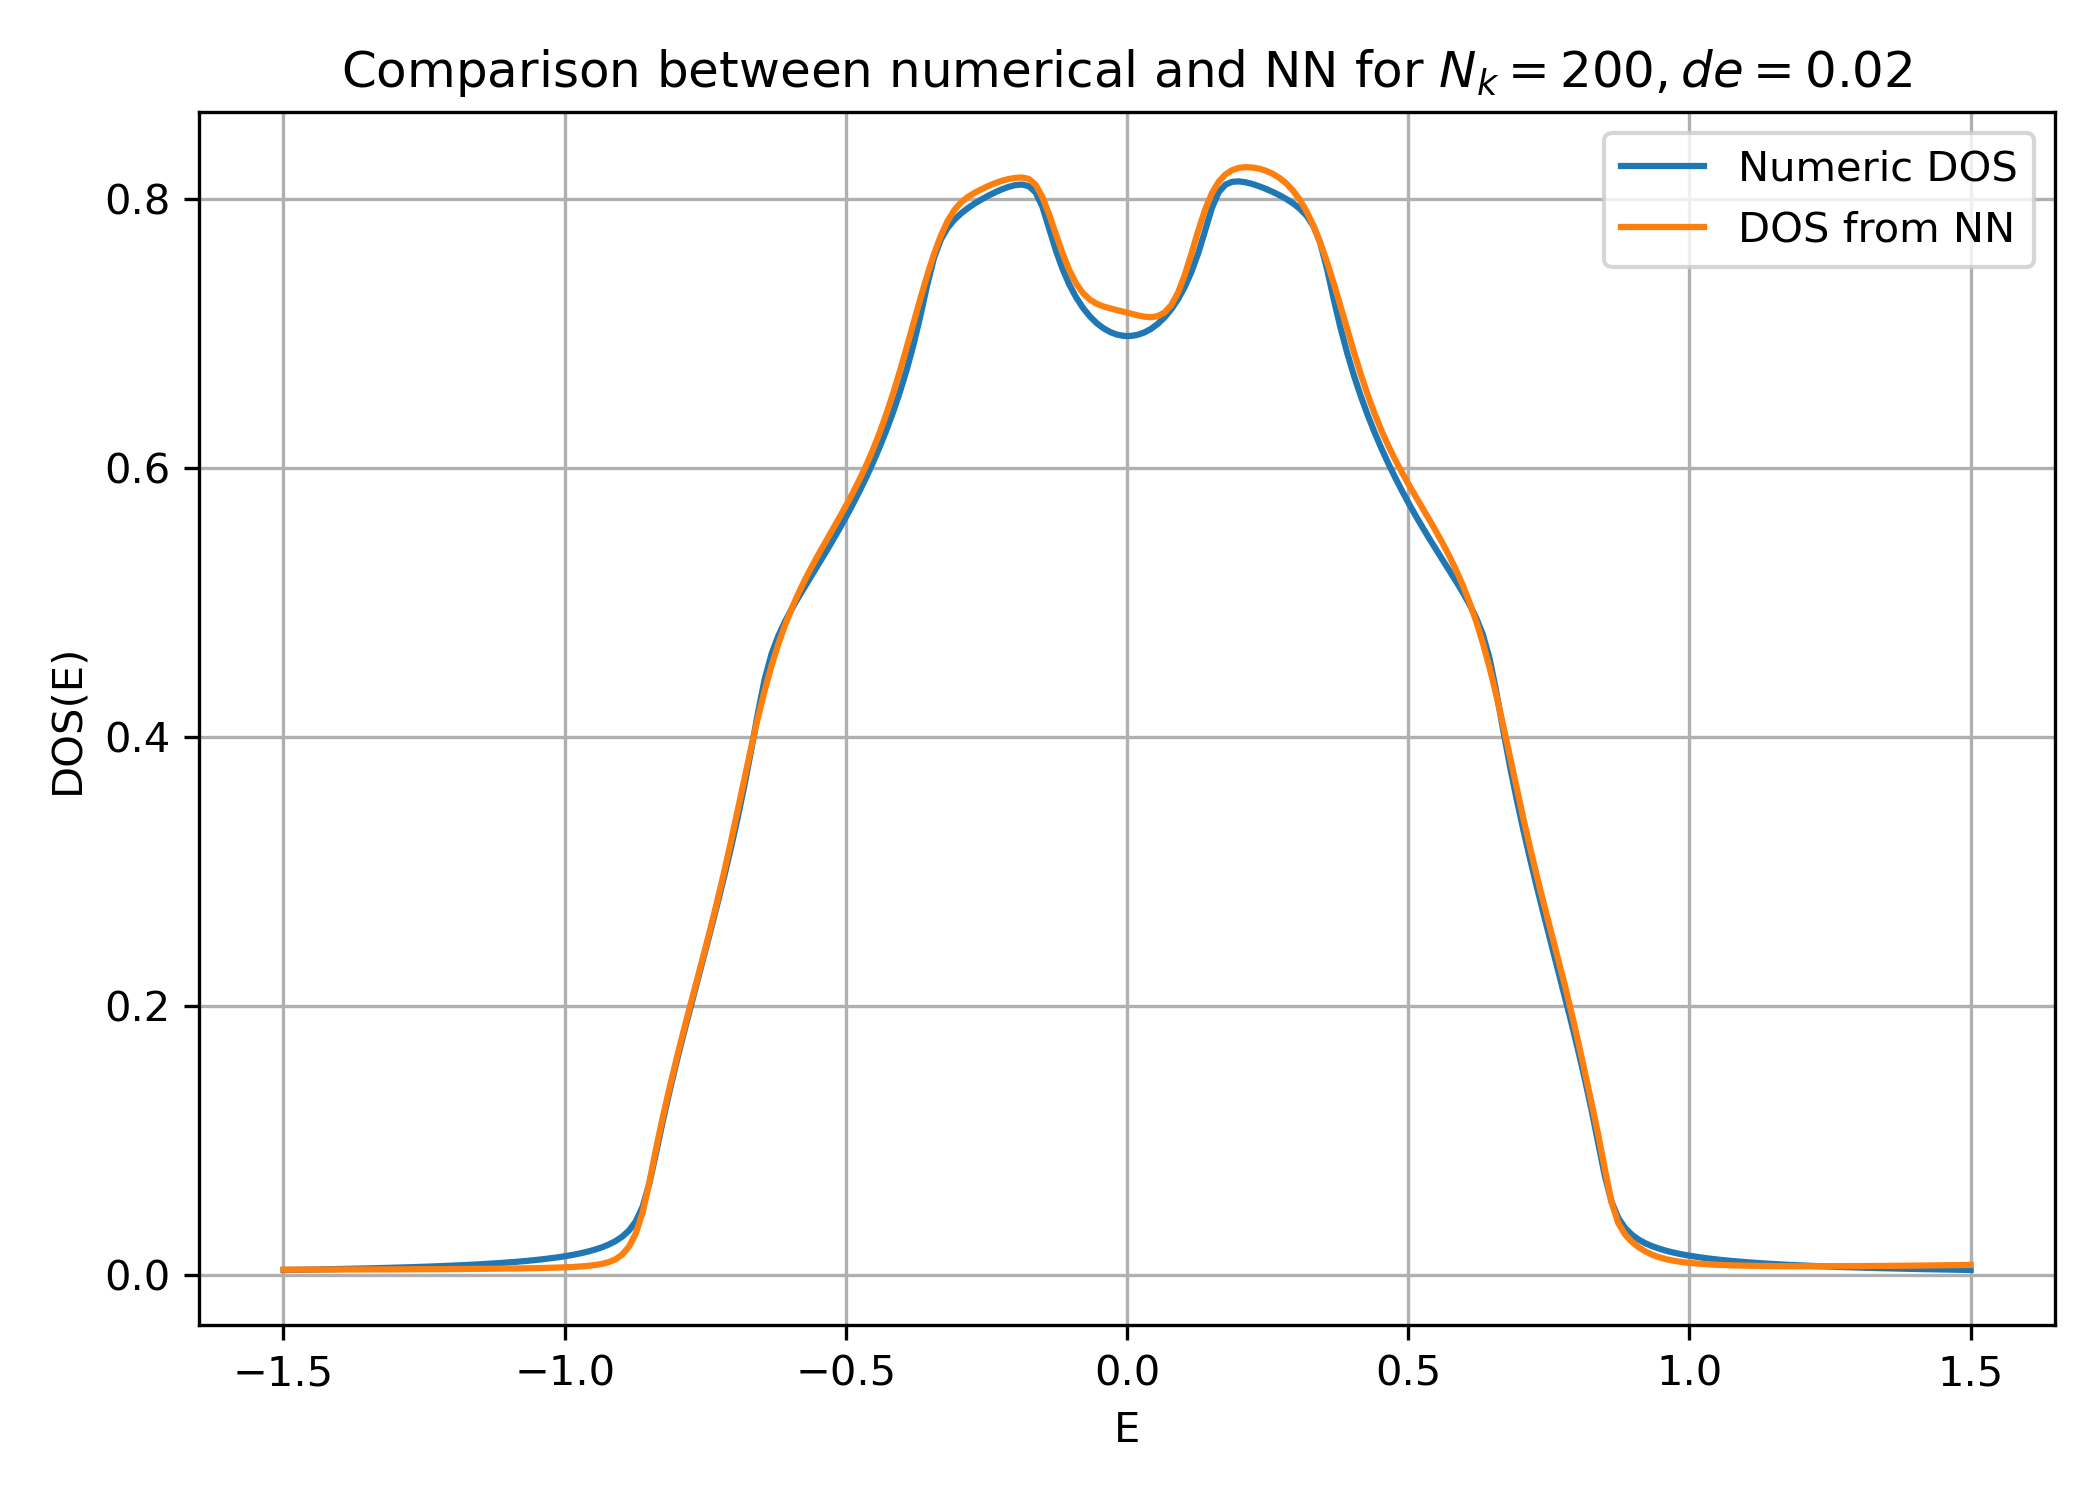
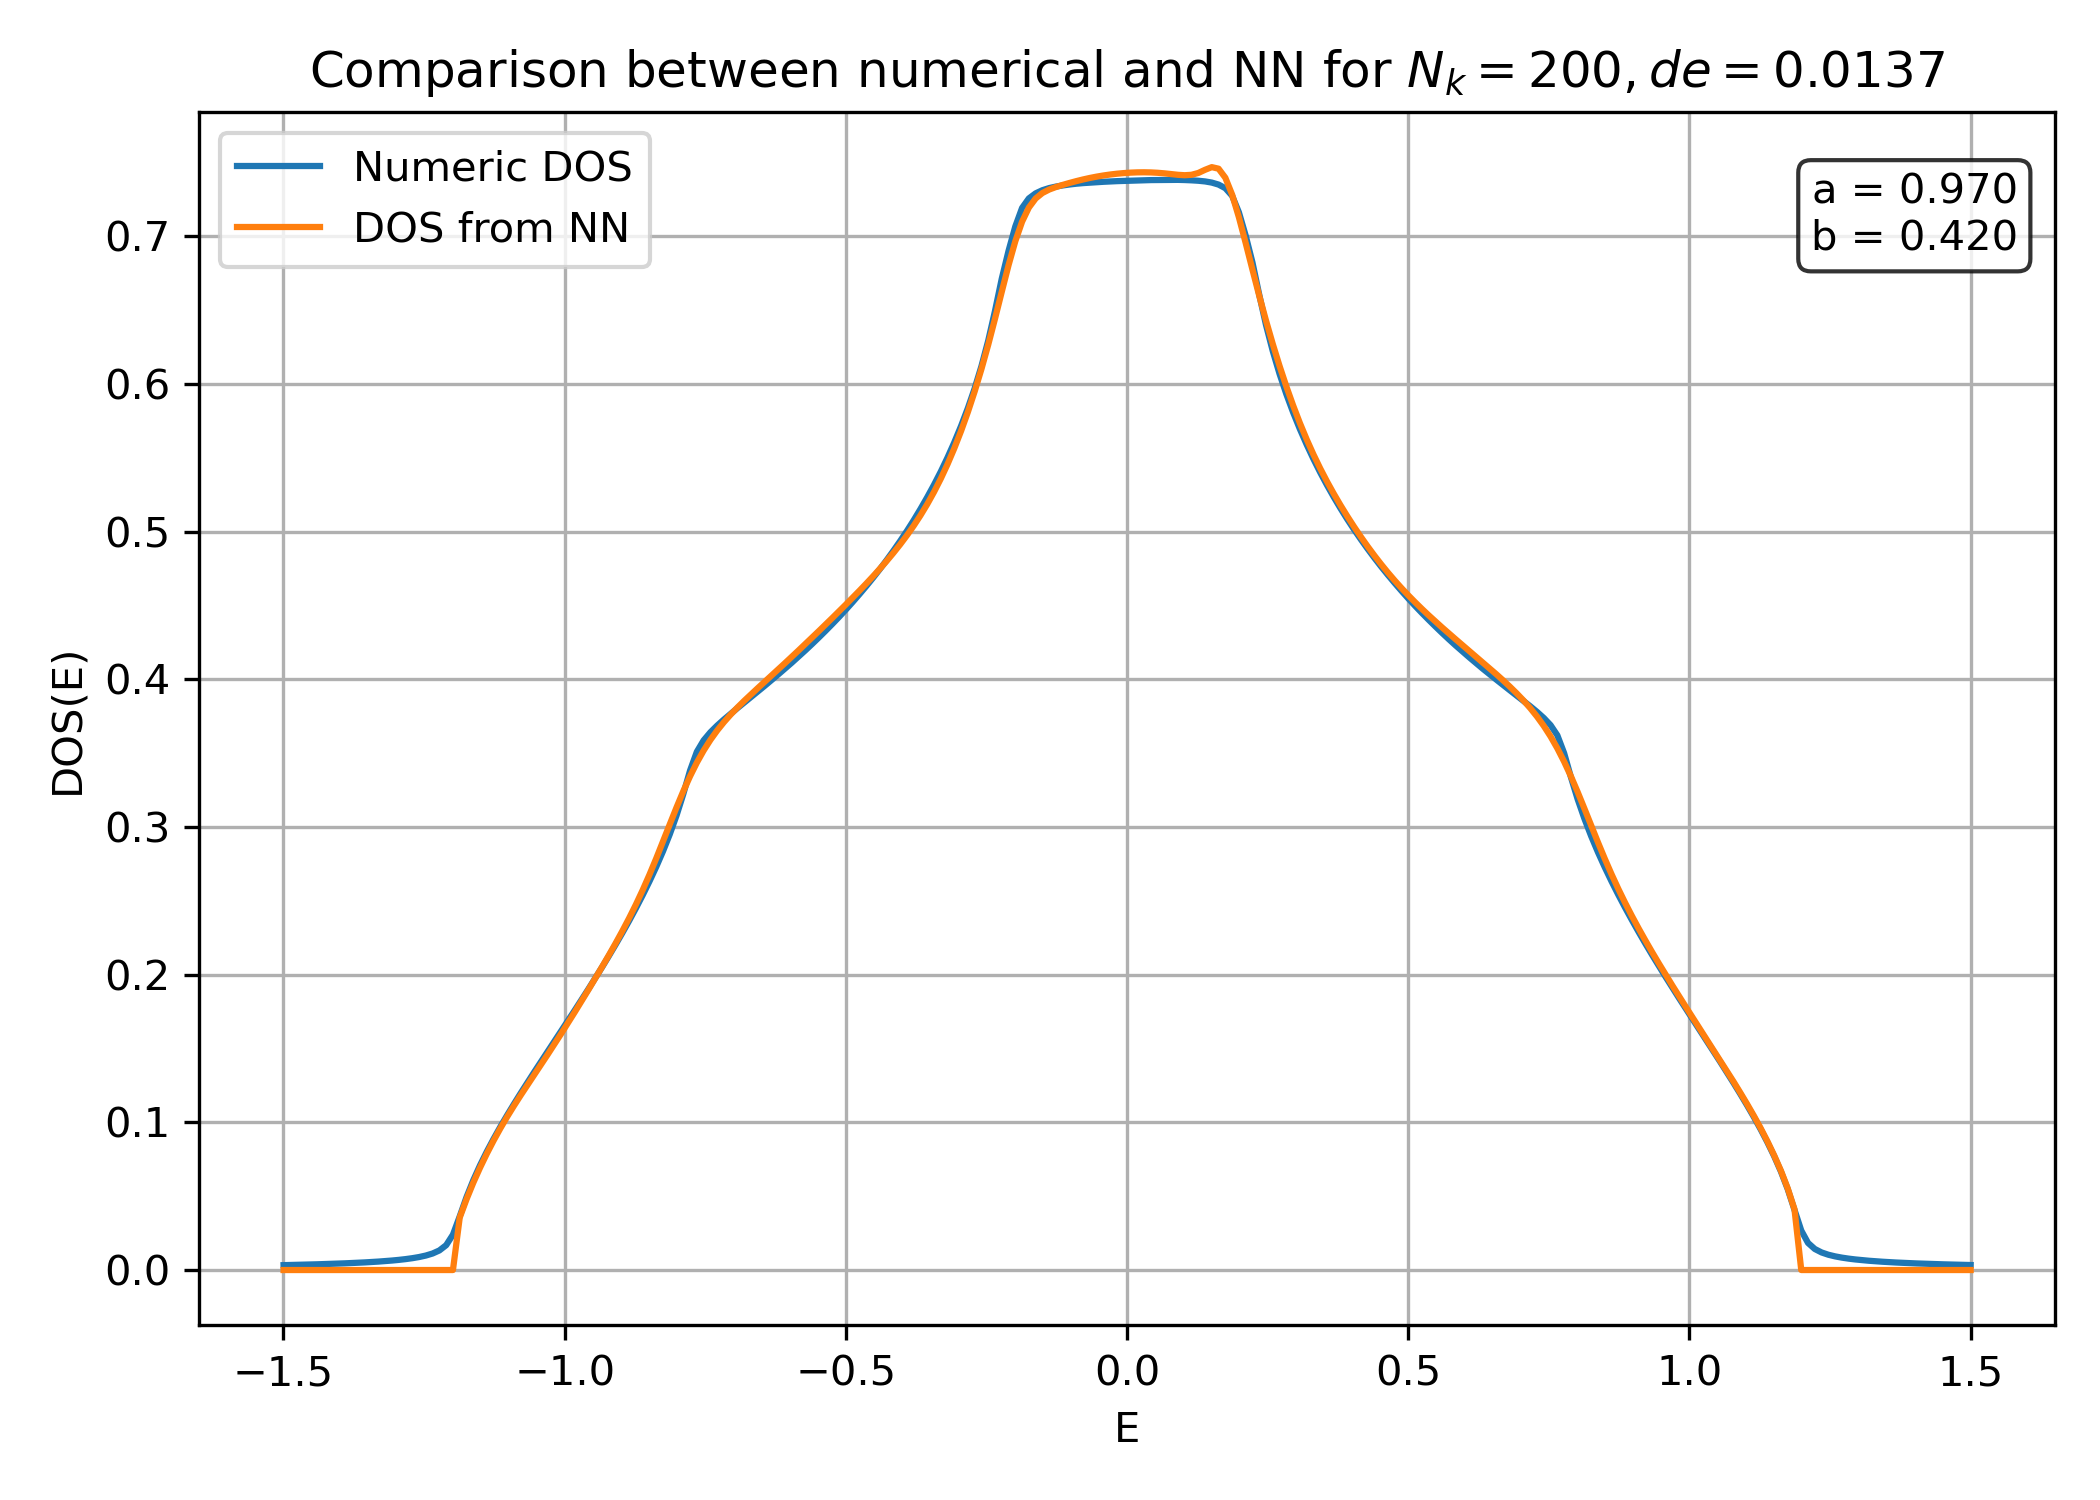
More labels on images

diff --git a/use_DOS_nn.py b/use_DOS_nn.py
@@ -51,6 +51,11 @@ def dos_from_nn(E_grid, de, a, b, model, X_mean, X_std):
 
     rho = np.exp(y_log)
 
+    e_min = -0.5 * (1 + abs(a) + abs(b))
+    e_max =  0.5 * (1 + abs(a) + abs(b))
+
+    rho[(E_grid < e_min) | (E_grid > e_max)] = 0.0
+
     return rho
 
 
@@ -60,9 +65,9 @@ data = np.load("dos_dataset.npz")
 E_grid = data["E_grid"]
 epsilon = data["e"]
 
-de = 2e-2
-a = 0.5
-b = 0.2
+a = 0.97
+b = 0.42
+de = 0.0137
 
 rho_nn = dos_from_nn(E_grid, de, a, b, model, X_mean, X_std)
 
@@ -77,13 +82,24 @@ e = epsilon_3D(X,Y,Z,a,b).ravel()
 rho_num = dos_parallel(E_grid, e, de)
 
 plt.figure(figsize=(7, 5))
-#plt.plot(E_grid, rho_nn, label="DOS from NN")
 plt.plot(E_grid, rho_num, label="Numeric DOS")
 plt.plot(E_grid, rho_nn, label="DOS from NN")
 plt.xlabel("E")
 plt.ylabel("DOS(E)")
 plt.title(fr"Comparison between numerical and NN for $N_k = 200, de={de}$")
 plt.legend()
+plt.text(
+    0.98, 0.95,
+    f"a = {a:.3f}\nb = {b:.3f}",
+    transform=plt.gca().transAxes,
+    ha="right",
+    va="top",
+    bbox=dict(
+        boxstyle="round",
+        facecolor="white",
+        alpha=0.8
+    )
+)
 plt.grid(True)
 plt.tight_layout()
 plt.savefig("images/DOS_nn.png",dpi=300)
@@ -103,13 +119,24 @@ e = epsilon_3D(X,Y,Z,a,b).ravel()
 rho_num = dos_parallel(E_grid, e, de)
 
 plt.figure(figsize=(7, 5))
-#plt.plot(E_grid, rho_nn, label="DOS from NN")
 plt.plot(E_grid, rho_num, label="Numeric DOS")
 plt.plot(E_grid, rho_nn, label="DOS from NN")
 plt.xlabel("E")
 plt.ylabel("DOS(E)")
 plt.title(fr"Comparison between numerical and NN for $N_k = {Ne}, de={de}$")
 plt.legend()
+plt.text(
+    0.98, 0.95,
+    f"a = {a:.3f}\nb = {b:.3f}",
+    transform=plt.gca().transAxes,
+    ha="right",
+    va="top",
+    bbox=dict(
+        boxstyle="round",
+        facecolor="white",
+        alpha=0.8
+    )
+)
 plt.grid(True)
 plt.tight_layout()
 plt.savefig("images/DOS_nn_finer.png",dpi=300)